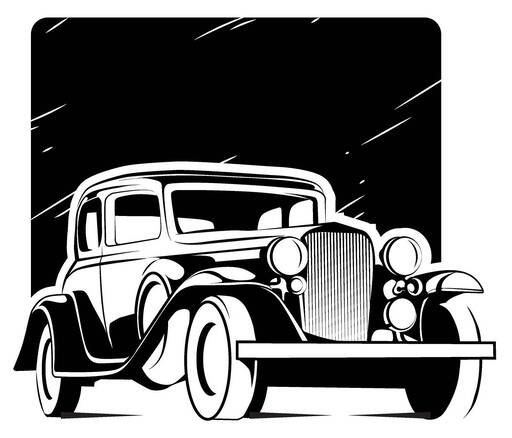
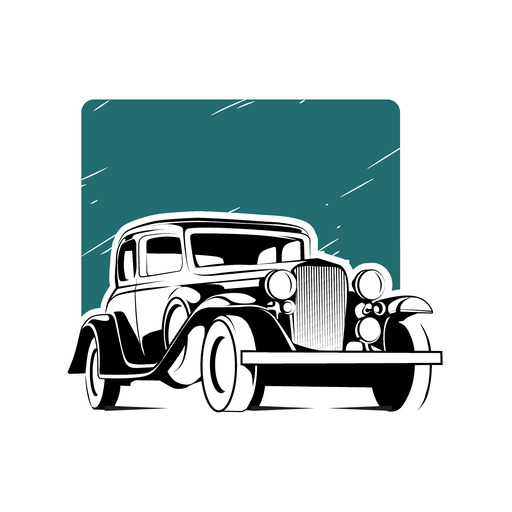
updated ui assets and, and using flex for prompt screen as well has height 100% and display fixed on root of XrScene and PromptScreen

diff --git a/src/routes/XrScene.tsx b/src/routes/XrScene.tsx
@@ -34,8 +34,10 @@ import enter_ar_btn_src from 'assets/ui/enter_ar_btn.png'
 import exit_ar_btn_src from 'assets/ui/exit_ar_btn.png'
 import pinch_icon_src from 'assets/ui/pinch_icon.png'
 import surface_icon_src from 'assets/ui/surface_icon.png'
+import darg_icon_src from 'assets/ui/drag_icon.png'
 import tap_place_icon_src from 'assets/ui/tap_to_place_icon.png'
 import info_btn_src from 'assets/ui/info_btn.png'
+import pr_logo_src from 'assets/ui/pr_logo.png'
 import LoadingPrompt from 'components/LoadingPrompt'
 import PromptScreen from 'components/PromptScreen'
 import { FunctionalComponent } from 'preact'
@@ -64,11 +66,12 @@ const camInertia = 0.9
 const camRadius = 13
 const camMinZ = 1
 const camAlpha = -Math.PI / 4
-const camBeta = Math.PI / 3
+const camBeta = Math.PI / 2.5
 const camLowerRadius = 5
 const camUpperRadius = 15
 const camWheelDeltaPercentage = 0.01
 const camWheelPrecision = 50
+let scene: Scene
 let rootModel: Mesh | null = null
 let xr: WebXRDefaultExperience
 // let dirLight: DirectionalLight | null = null
@@ -79,13 +82,13 @@ const XrScene: FunctionalComponent<RoutableProps> = () => {
   const [isLoading, setIsLoading] = useState(true)
   const [showInfo, setShowInfo] = useState(false)
   const canvasRef = useRef<HTMLCanvasElement | null>(null)
-  const infoBtnRef = useRef<HTMLButtonElement | null>(null)
-  const exitBtnRef = useRef<HTMLButtonElement | null>(null)
+  const arInfoBtnRef = useRef<HTMLButtonElement | null>(null)
+  const arExitBtnRef = useRef<HTMLButtonElement | null>(null)
 
   const initScene = async () => {
     const canvas = canvasRef.current
-    const infoBtn = infoBtnRef.current
-    const exitBtn = exitBtnRef.current
+    const infoBtn = arInfoBtnRef.current
+    const exitBtn = arExitBtnRef.current
     if (canvas) {
       const engine = new Engine(canvas, true, {
         stencil: true,
@@ -94,7 +97,7 @@ const XrScene: FunctionalComponent<RoutableProps> = () => {
         disableWebGL2Support: iOS()
       })
       engine.enableOfflineSupport = false
-      const scene = new Scene(engine)
+      scene = new Scene(engine)
 
       /**
        * Environment texture for 3d preview/skybox.
@@ -510,7 +513,7 @@ const XrScene: FunctionalComponent<RoutableProps> = () => {
     }
   }
 
-  const handleInfoBtnClick = () => {
+  const handleInfoToggle = () => {
     setShowInfo(prev => !prev)
     if (xr) {
       if (showInfo) {
@@ -523,12 +526,8 @@ const XrScene: FunctionalComponent<RoutableProps> = () => {
 
   const handleExitArBtnClick = () => {
     if (xr) {
-      // if (xr.pointerSelection.attached === false) {
-      //   xr.pointerSelection.attach()
-      // }
       xr.baseExperience.exitXRAsync()
     }
-    // setShowInfo(false)
   }
 
   useEffect(() => {
@@ -540,8 +539,14 @@ const XrScene: FunctionalComponent<RoutableProps> = () => {
     }
   }, [])
 
+  useEffect(() => {
+    return () => {
+      scene.dispose()
+    }
+  }, [])
+
   return (
-    <>
+    <div class='fixed w-screen h-full'>
       <PromptScreen
         show={isLoading}
         prompt={
@@ -556,13 +561,55 @@ const XrScene: FunctionalComponent<RoutableProps> = () => {
           />
         }
       />
+      <button
+        id='preview-info-btn'
+        class='absolute top-0 right-0'
+        onClick={handleInfoToggle}
+      >
+        <img class='w-16 h-16' src={info_btn_src} alt='Start immersive-ar' />
+      </button>
       {arSupported && (
-        <div class='z-[12] absolute bottom-10 w-full flex justify-center'>
+        <div class='absolute bottom-20 w-full flex justify-center'>
           <button id='start_ar_button' onClick={handleEnterArBtnClick}>
-            <img class='h-9' src={enter_ar_btn_src} alt='Start AR' />
+            <img class='h-16' src={enter_ar_btn_src} alt='Start AR' />
           </button>
         </div>
       )}
+      <img
+        class='max-w-[96px] absolute bottom-1 left-1'
+        src={pr_logo_src}
+        alt='Post Reality'
+      />
+      {showInfo && (
+        <div class='absolute top-0 w-screen h-screen px-6 flex flex-col justify-center items-center bg-[#000000AA]'>
+          <div class='max-w-[295] rounded-lg shadow-lg bg-white'>
+            <div class='uppercase text-center text-lg py-3'>Instructions</div>
+            <hr />
+            <div class='p-4 text-sm shadow-inner'>
+              <div class='w-full flex items-center mt-1 mb-5'>
+                <img class='w-11' src={darg_icon_src} alt='' />
+                <div class='flex-grow ml-6 mr-6'>
+                  Drag left and right to change the angle.
+                </div>
+              </div>
+              <div class='w-full flex items-center mb-1 mt-5'>
+                <img class='w-11' src={pinch_icon_src} alt='' />
+                <div class='flex-grow ml-6 mr-6'>
+                  Pinch to move the model closer or further away.
+                </div>
+              </div>
+            </div>
+            <hr />
+            <button
+              class='text-center w-full py-3 font-semibold uppercase'
+              onClick={handleInfoToggle}
+            >
+              Close
+            </button>
+          </div>
+        </div>
+      )}
+
       <canvas
         id='render-canvas'
         ref={canvasRef}
@@ -570,60 +617,74 @@ const XrScene: FunctionalComponent<RoutableProps> = () => {
       />
       <div
         id='ar-overlay'
-        class='z-[-12] absolute top-0 w-screen h-screen p-4 flex flex-col justify-center items-center'
+        class='z-[-12] absolute top-0 w-screen h-screen px-6 flex flex-col justify-center items-center bg-[#000000AA]'
       >
         <div>
           <button
-            id='info'
-            ref={infoBtnRef}
-            class='absolute top-5 right-5'
-            onClick={handleInfoBtnClick}
+            id='ar-view-info-btn'
+            ref={arInfoBtnRef}
+            class='absolute top-0 right-0'
+            onClick={handleInfoToggle}
           >
             <img
-              class='w-14 h-14'
+              class='w-16 h-16'
               src={info_btn_src}
               alt='Start immersive-ar'
             />
           </button>
           {showInfo && (
             <div class='max-w-[295] rounded-lg shadow-lg bg-white'>
-              <div class='uppercase text-center py-3'>Instructions</div>
+              <div class='uppercase text-center py-3 text-lg'>Instructions</div>
               <hr />
-              <div class='p-4'>
+              <div class='p-4 text-sm shadow-inner'>
                 <div class='w-full flex items-center mt-1 mb-4'>
-                  <img class='w-12' src={surface_icon_src} alt='' />
-                  <div class='flex-grow ml-3'>
+                  <img class='w-11' src={surface_icon_src} alt='' />
+                  <div class='flex-grow ml-6 mr-6'>
                     Point at a horizontal surface to detect it.
                   </div>
                 </div>
-                <div class='w-full flex items-center my-3'>
-                  <img class='w-12' src={tap_place_icon_src} alt='' />
-                  <div class='flex-grow ml-3'>Tap screen to place model.</div>
+                <div class='w-full flex items-center my-2'>
+                  <img class='w-11' src={tap_place_icon_src} alt='' />
+                  <div class='flex-grow ml-6 mr-6'>
+                    Tap screen to place model.
+                  </div>
                 </div>
                 <div class='w-full flex items-center mb-1 mt-4'>
-                  <img class='w-12' src={pinch_icon_src} alt='' />
-                  <div class='flex-grow ml-3'>
+                  <img class='w-11' src={pinch_icon_src} alt='' />
+                  <div class='flex-grow ml-6 mr-6'>
                     You can pinch to scale, rotate and drag to move the model.
                   </div>
                 </div>
               </div>
+              <hr />
+              <button
+                class='text-center w-full py-3 font-semibold uppercase'
+                onClick={handleInfoToggle}
+              >
+                Close
+              </button>
             </div>
           )}
           <button
             id='exit'
-            ref={exitBtnRef}
-            class='absolute bottom-5 right-5'
+            ref={arExitBtnRef}
+            class='absolute top-0 left-0'
             onClick={handleExitArBtnClick}
           >
             <img
-              class='w-14 h-14'
+              class='w-16 h-16'
               src={exit_ar_btn_src}
               alt='Start immersive-ar'
             />
           </button>
+          <img
+            class='max-w-[96px] absolute bottom-1 left-1'
+            src={pr_logo_src}
+            alt='Post Reality'
+          />
         </div>
       </div>
-    </>
+    </div>
   )
 }
 

diff --git a/src/components/PromptScreen.tsx b/src/components/PromptScreen.tsx
@@ -29,23 +29,27 @@ const PromptScreen: FunctionalComponent<PromptScreenProps> = ({
     <div
       id='prompt-screen'
       class={clsx(
-        'absolute',
+        'fixed',
         'w-screen',
-        'h-screen',
+        'h-full',
+        'flex',
+        'flex-col',
         'bg-white',
+        'z-[9999]',
         'transition-opacity',
         'ease-in',
         'duration-300',
-        show ? 'opacity-100' : 'opacity-0',
-        'z-[9999]'
+        show ? 'opacity-100' : 'opacity-0'
       )}
     >
-      <div class='absolute min-w-full flex flex-col justify-center items-center top-16'>
-        <img class='w-[250px] h-auto' src={forc_icon_src} alt='Ford' />
+      <div class='basis-9/12 flex flex-col justify-center items-center'>
+        <img class='w-auto h-auto' src={forc_icon_src} alt='Ford' />
       </div>
-      {prompt}
-      <div class='absolute bottom-5 w-full flex items-center justify-center'>
-        <img class='max-w-[128px]' src={pr_logo_src} alt='Post Reality' />
+      <div class='basis-2/12 flex flex-col justify-center items-center'>
+        {prompt}
+      </div>
+      <div class='basis-1/12 flex flex-col justify-center items-center'>
+        <img class='max-w-[96px]' src={pr_logo_src} alt='Post Reality' />
       </div>
     </div>
   )

diff --git a/src/routes/Home.tsx b/src/routes/Home.tsx
@@ -9,11 +9,9 @@ const Home: FunctionalComponent<RoutableProps> = () => {
     <PromptScreen
       show={true}
       prompt={
-        <div class='w-full absolute bottom-28 flex justify-center'>
-          <Link href='/xr'>
-            <img class='h-9' src={start_btn_src} alt='start' />
-          </Link>
-        </div>
+        <Link href='/xr'>
+          <img class='h-20' src={start_btn_src} alt='start' />
+        </Link>
       }
     />
   )

diff --git a/src/components/LoadingPrompt.tsx b/src/components/LoadingPrompt.tsx
@@ -16,15 +16,12 @@ const LoadingPrompt: FunctionalComponent<LoadingPromptProps> = ({
     <>
       <div
         class={clsx(
-          'w-full',
-          'absolute',
-          'bottom-28',
           'flex',
           'flex-col',
           'justify-center',
           'items-center',
           'text-black',
-          'text-md',
+          // 'text-sm',
           'uppercase',
           'font-semibold'
         )}

diff --git a/src/components/ProgressBar.tsx b/src/components/ProgressBar.tsx
@@ -9,7 +9,7 @@ const ProgressBar: FunctionalComponent<ProgressBarProps> = ({ value }) => {
   return (
     <div
       id='progress-bar'
-      class='w-24 h-4 mt-2 mx-auto bg-black p-[3px] rounded-lg scale-125'
+      class='w-28 h-4 mt-2 bg-[#216d6f] p-[3px] rounded-lg scale-125'
     >
       <div
         id='progress-bar-rail'
